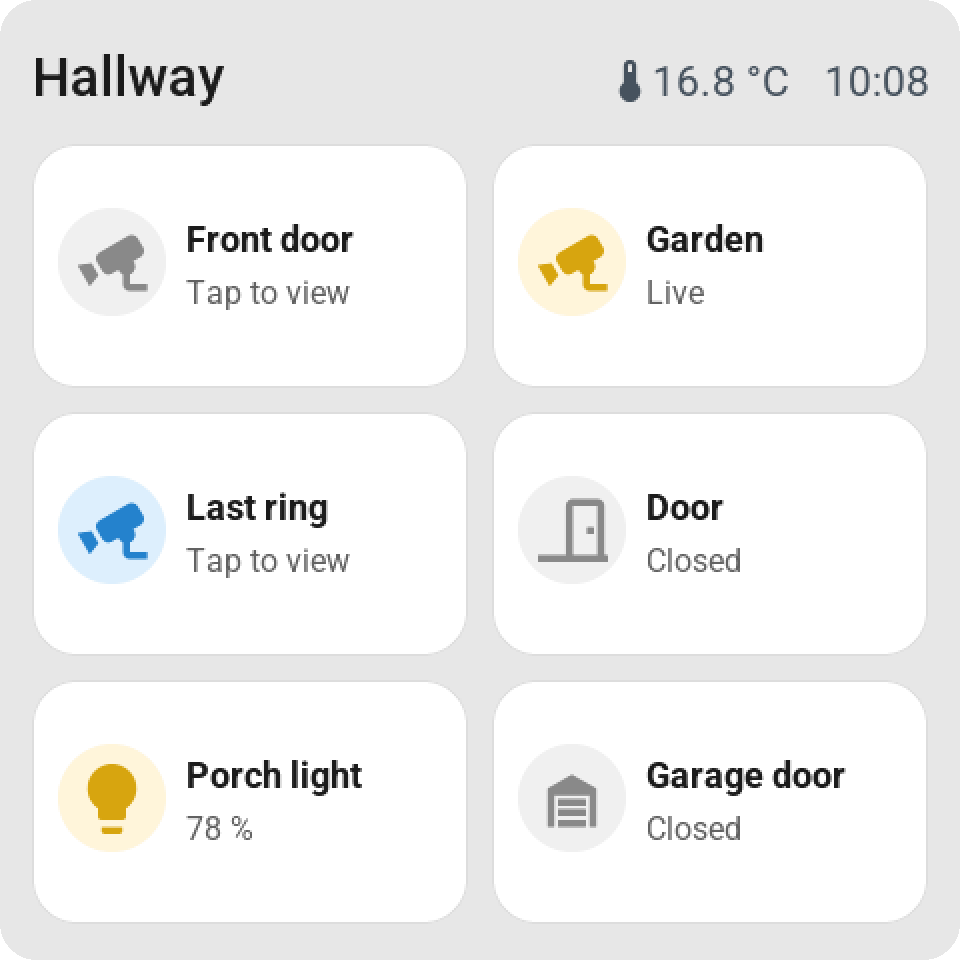
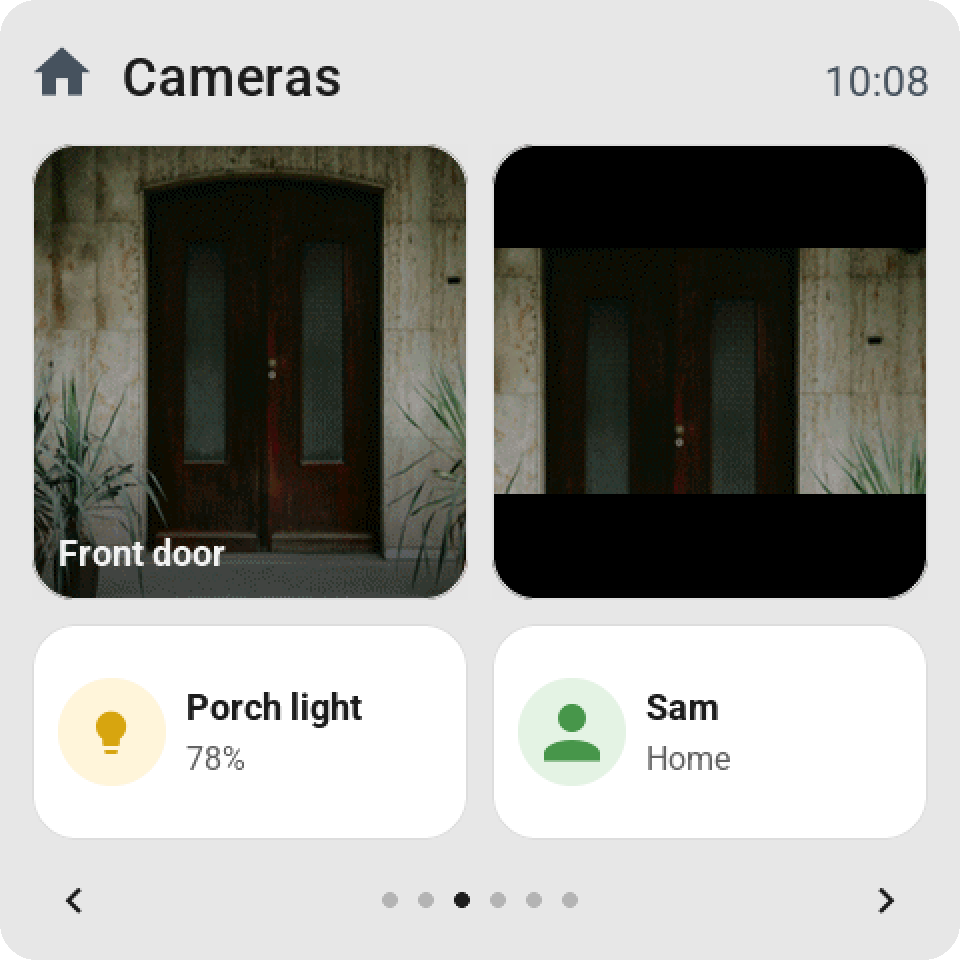
Show the 0.3.8 tiles in the README: weather, thermostat, cameras, alarm and select
A new README section with renders of the redesigned weather and thermostat
tiles, a camera filling a 2 x 2 tile, the alarm panel's tiles, card and
keypad, and the select card, plus a line on pages kept ready (0.3.7). The
camera tiles image shows the new filled and whole-picture tiles, and the
alerts row shows two buttons in their own colours. Rendered from the
firmware's own code with a demo home. Docs only, no release.

diff --git a/README.md b/README.md
@@ -100,6 +100,24 @@ home fits on one page.
 </p>
 <p align="center"><sub>A tile can be 1 × 2 or 2 × 2 cells as well as one cell, double width or the whole page, and the card follows the room it gets: a player shows its album cover behind the track (every screen but the CYD), the heating shows its setpoint and the modes Home Assistant lists for it (the last key opens the card when they do not all fit), a blind shows its position, and its slats where there is room, an on/off tile stands centred with its switch. Every board works out the same card from its own glass. Each page has its own title and top bar, any page can be Home, and a page can stay out of the page dots and be opened from a tile, with a Back key to return. Rendered from the firmware's own LVGL code with a demo home.</sub></p>
 
+## Weather, heating, cameras and your alarm
+
+<p align="center">
+  <img src="docs/images/guition-weather-tiles.png" width="32%" alt="The 4-inch Guition with two weather tiles: a wide one with today and the next three days, and a big one listing the days under each other, each with a coloured bar from its low to its high on one scale">
+  <img src="docs/images/guition-thermostat-tiles.png" width="32%" alt="Three thermostats: the heating with its setpoint between minus and plus and a bar with Heat and Auto, an airco on cool with heat, cool and more behind three dots, and a short bedroom tile with the stepper on one row">
+  <img src="docs/images/guition-camera-fill.png" width="32%" alt="A garden camera on a tile of two by two cells, its picture filling the whole card with the camera's name at the bottom, above the garden lights and the garden temperature">
+</p>
+<p align="center">
+  <img src="docs/images/guition-alarm-tiles.png" width="32%" alt="Four alarm panels as tiles: the house disarmed in grey, the garage armed away in green, the shed arming in orange and the studio armed home in green">
+  <img src="docs/images/guition-alarm-card.png" width="32%" alt="The alarm card: the shield in its circle, keys for Home, Away, Night and Vacation, and the Disarmed key">
+  <img src="docs/images/guition-alarm-keypad.png" width="32%" alt="The keypad to arm away: four dots for the code, the digits 1 to 0, a clear key and a check key">
+</p>
+<p align="center">
+  <img src="docs/images/waveshare43-new-tiles.png" width="49%" alt="The 4.3-inch Waveshare: a wide weather tile with the coming days, the heating with its stepper, a front door camera filling a tile of two by two cells, and the dryer">
+  <img src="docs/images/waveshare43-select-card.png" width="49%" alt="The select card of a washing machine on the 4.3-inch Waveshare: its programmes in two columns, Cotton eco checked, and page dots for the rest">
+</p>
+<p align="center"><sub>The weather with the coming days, and on a bigger tile the whole week with a bar from each day's low to its high. A thermostat has its − / + and a bar with a key per mode; an airco shows heat and cool first and the rest behind "…". A live camera on a taller tile fills the card with its picture and its name, or shows the whole picture. Your alarm is a tile in Home Assistant's colours, with a key for every mode and Home Assistant's keypad when the panel asks for a code; someone coming in wakes every screen with the keypad to disarm. A select, such as a washing machine's programme, opens a list with a check at the one it is on. On every screen with the memory for it, every page is built ahead and kept, so the next one is there the moment you turn to it. Rendered from the firmware's own LVGL code with a demo home.</sub></p>
+
 ## On the screen
 
 <p align="center">
@@ -134,11 +152,11 @@ home fits on one page.
 </p>
 <p align="center"><sub>Tap a tile to switch it, hold it for the full card. Keys and sliders right on the tile, pastel colors, a clock, the weather and history you can read with a finger. A lamp with modes (a WLED) gets an effects page with a drum picker, named and filled from what Home Assistant lists for it. The media card shows what plays with its album cover, fetched by ESP Screens like a camera picture, and a media tile can show that cover in the icon's place (<a href="docs/CAMERA.md">how</a>). Rendered from the firmware's own LVGL code with a demo home.</sub></p>
 <p align="center">
-  <img src="docs/images/guition-camera-tiles.png" width="32%" alt="Cameras as tiles on the Guition: the front door camera, the garden camera live, the doorbell's last ring, next to the door, the porch light and the garage door">
+  <img src="docs/images/guition-camera-tiles.png" width="32%" alt="Cameras as tiles on the Guition: the front door camera filling a tall tile with its name at the bottom, a porch camera showing its whole picture with black above and below, the porch light and Sam at home">
   <img src="docs/images/guition-camera.png" width="32%" alt="A camera tile tapped: the front door camera full screen, with the round back key and the camera's name at the top">
   <img src="docs/images/guition-alert-camera.png" width="32%" alt="The same camera in an alert: its picture across the top of the card, with the card's rounded corners">
 </p>
-<p align="center"><sub>Cameras are tiles too, not only part of an alert: any camera or snapshot in Home Assistant (a doorbell's last ring, for example) goes on a screen like any other tile. Tap it for the picture full screen, refreshed every four seconds, or let the tile itself show a small live picture in the icon's place (Display → Live picture, every 15 or 30 s); an alert can carry the same picture. Every screen but the CYD, which has no memory for pictures (<a href="docs/CAMERA.md">how it works</a>).</sub></p>
+<p align="center"><sub>Cameras are tiles too, not only part of an alert: any camera or snapshot in Home Assistant (a doorbell's last ring, for example) goes on a screen like any other tile. Tap it for the picture full screen, refreshed every four seconds, or let the tile itself show its live picture (Display → Live picture, every 15 or 30 s): in the icon's place, or on a taller tile over the whole card, filled or whole, with or without its name; an alert can carry the same picture. Every screen but the CYD, which has no memory for pictures (<a href="docs/CAMERA.md">how it works</a>).</sub></p>
 <p align="center">
   <img src="docs/images/cyd-home.png" width="32%" alt="CYD 2.8-inch screen: the weather forecast, a kitchen timer, the coffee machine, a lamp and power usage as a large value">
   <img src="docs/images/cyd-page-2.png" width="32%" alt="Second CYD page: Sonos volume, presence, a scene and an energy graph">
@@ -229,10 +247,10 @@ while it keeps your country's clock and numbers.
 </p>
 <p align="center"><sub>Someone at the door? One event in an automation wakes every screen and shows it. Add the doorbell camera and a Guition shows who is there; tap the picture, or a camera tile, for the camera full screen, refreshed every few seconds. <a href="docs/CAMERA.md">Camera images</a>.</sub></p>
 <p align="center">
-  <img src="docs/images/guition-alert.png" width="41%" alt="An alert on the Guition: someone is at the door, with a Coming button">
+  <img src="docs/images/guition-alert-choice-colors.png" width="41%" alt="An alert on the Guition asking to open the garage, with a red Decline and a green Accept button side by side">
   <img src="docs/images/editor-alerts.png" width="53%" alt="The Alerts cheatsheet in ESP Screens: the action name of every screen, ready to copy">
 </p>
-<p align="center"><sub>Any alert, on one screen or all of them, in a pastel color of your choice. <a href="README_EXTENDED.md#alert-from-an-automation">How alerts work</a>. An automation can also put a page in front, such as the page with the full-page player when the music starts: <a href="README_EXTENDED.md#open-a-page-from-an-automation">Open a page from an automation</a>.</sub></p>
+<p align="center"><sub>Any alert, on one screen or all of them, in a pastel color of your choice, with one button or two to choose from, each in a color of its own and with its own action. <a href="README_EXTENDED.md#alert-from-an-automation">How alerts work</a>. An automation can also put a page in front, such as the page with the full-page player when the music starts: <a href="README_EXTENDED.md#open-a-page-from-an-automation">Open a page from an automation</a>.</sub></p>
 
 ## Installing from Home Assistant
 
